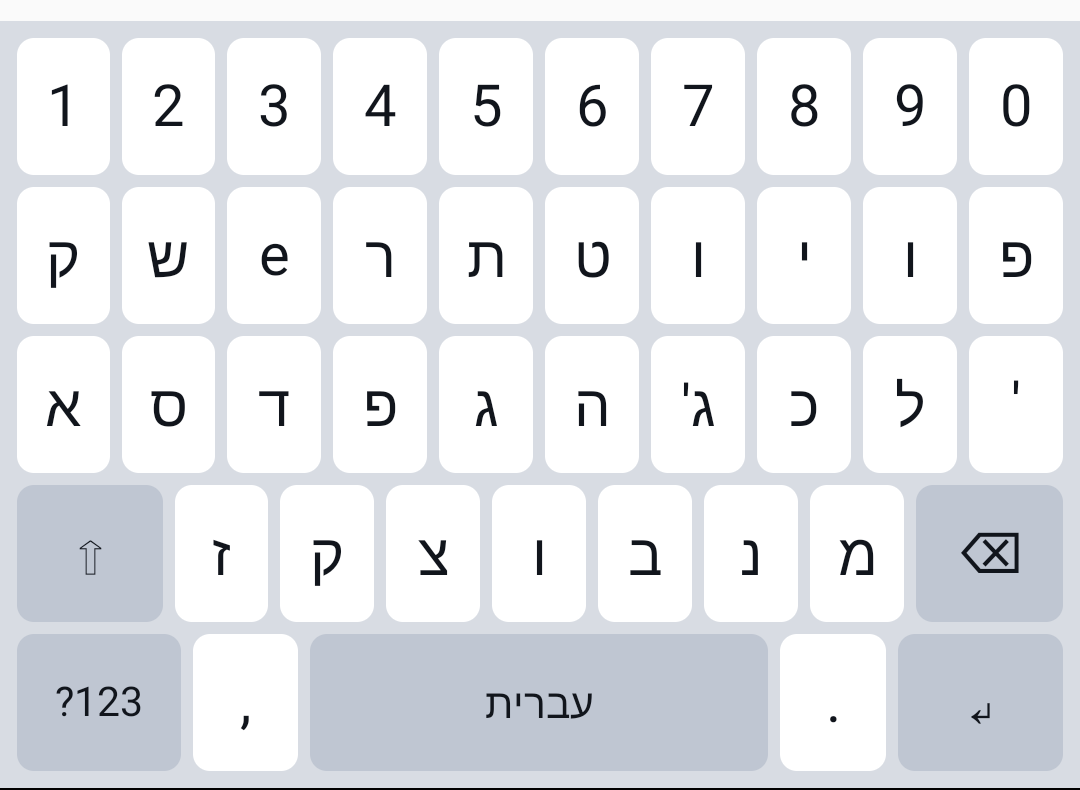
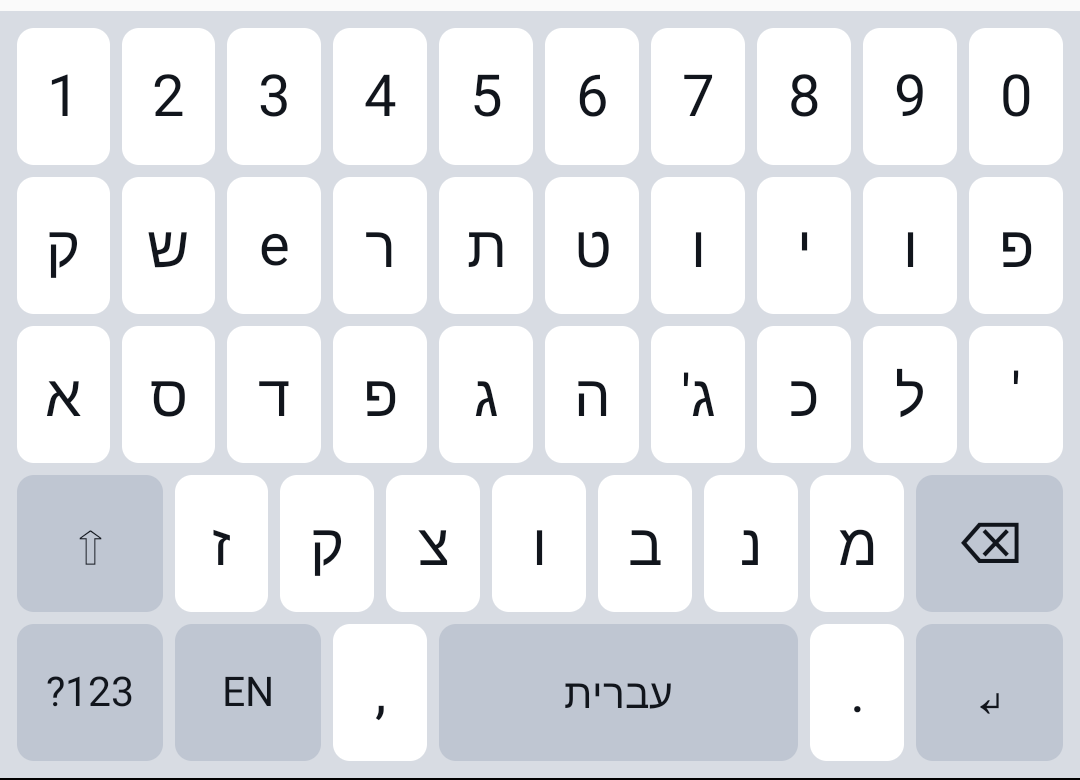
Add an English layer and a key that switches to it
Selecting this keyboard left no way back to Latin letters: the Windows
layout it reproduces has no such notion, because on a PC the layout is one
of several the system switches between, and on a phone the keyboard is the
only one on screen.

So the app now carries a second letter layer, a plain QWERTY on the same
keys, and the bottom row carries a key that moves between the two. The
same key held down rather than tapped opens the phone's own list of
keyboards, which is the way out to a keyboard this app does not provide.
The chosen language survives moving between text fields; the Shift state
and the symbols layer do not.

The three layers now share one bottom row, which first cost the Hebrew
layer the < and > that the Windows layout puts on Shift+comma and
Shift+period; the shared row takes them as arguments instead, and the
Hebrew layer is again identical, character for character, to the table
read out of the DLL.

Checked on an android-30 emulator: typing the QWERTY positions q w, then
the language key, then q w and Shift+a, then the language key again and
a, gives קשqwAא; holding the language key opens "Choose input method"
with both installed keyboards listed.

Claude-Session: https://claude.ai/code/session_01JozJedusmp8Pi1qQbLUUen

diff --git a/android/src/org/rami5743/heph1/KeyboardPanel.java b/android/src/org/rami5743/heph1/KeyboardPanel.java
@@ -23,10 +23,13 @@ final class KeyboardPanel extends LinearLayout {
         void onText(String text);
         void onBackspace();
         void onEnter();
+        /** The language key held down: offer the phone's other keyboards. */
+        void onOtherKeyboards();
     }
 
     private static final int REPEAT_FIRST_MS = 400;
     private static final int REPEAT_MS = 60;
+    private static final int HOLD_MS = 500;
 
     private final Listener listener;
     private final boolean dark;
@@ -35,6 +38,7 @@ final class KeyboardPanel extends LinearLayout {
     private boolean shift;
     private boolean shiftLocked;
     private boolean symbols;
+    private boolean hebrew = true;
 
     KeyboardPanel(Context context, Listener listener) {
         super(context);
@@ -65,7 +69,8 @@ final class KeyboardPanel extends LinearLayout {
 
     private void build() {
         removeAllViews();
-        Layout.Key[][] rows = symbols ? Layout.SYMBOLS : Layout.LETTERS;
+        Layout.Key[][] rows = symbols ? Layout.SYMBOLS
+                : hebrew ? Layout.HEBREW : Layout.ENGLISH;
         for (Layout.Key[] row : rows) {
             LinearLayout line = new LinearLayout(getContext());
             line.setOrientation(HORIZONTAL);
@@ -77,6 +82,23 @@ final class KeyboardPanel extends LinearLayout {
                 line.addView(makeKey(key), new LayoutParams(0,
                         ViewGroup.LayoutParams.MATCH_PARENT, key.weight));
             }
+        }
+    }
+
+    /**
+     * The label of a key, for the three special keys whose text says which
+     * layer the keyboard is on or would move to.
+     */
+    private String labelOf(Layout.Key key) {
+        switch (key.code) {
+            case Layout.Key.LANGUAGE:
+                return hebrew ? "EN" : "עב";
+            case Layout.Key.TO_LETTERS:
+                return hebrew ? "אבג" : "abc";
+            case Layout.Key.SPACE:
+                return hebrew ? "עברית" : "English";
+            default:
+                return key.labelFor(shift || shiftLocked);
         }
     }
 
@@ -95,9 +117,9 @@ final class KeyboardPanel extends LinearLayout {
         view.setIncludeFontPadding(false);
         view.setTextColor(dark ? 0xFFF2F4F8 : 0xFF11151C);
         boolean wide = key.code == Layout.Key.SPACE || key.code == Layout.Key.TO_SYMBOLS
-                || key.code == Layout.Key.TO_LETTERS;
+                || key.code == Layout.Key.TO_LETTERS || key.code == Layout.Key.LANGUAGE;
         view.setTextSize(TypedValue.COMPLEX_UNIT_SP, wide ? 15 : 21);
-        view.setText(key.labelFor(shift || shiftLocked));
+        view.setText(labelOf(key));
 
         final GradientDrawable face = new GradientDrawable();
         face.setCornerRadius(dp(6));
@@ -106,13 +128,23 @@ final class KeyboardPanel extends LinearLayout {
 
         int m = dp(2);
         view.setPadding(m, m, m, m);
-        LinearLayout holder = new LinearLayout(getContext());
-        holder.setPadding(m, m, m, m);
-        holder.addView(view, new LayoutParams(ViewGroup.LayoutParams.MATCH_PARENT,
+        LinearLayout cell = new LinearLayout(getContext());
+        cell.setPadding(m, m, m, m);
+        cell.addView(view, new LayoutParams(ViewGroup.LayoutParams.MATCH_PARENT,
                 ViewGroup.LayoutParams.MATCH_PARENT));
 
         view.setOnTouchListener(new KeyTouch(key, face));
-        return holder;
+        return cell;
+    }
+
+    /** The language key held down: the phone's list of keyboards. */
+    private final class Holder implements Runnable {
+        boolean fired;
+
+        @Override public void run() {
+            fired = true;
+            listener.onOtherKeyboards();
+        }
     }
 
     /** Repeats backspace while the key is held down. */
@@ -128,6 +160,7 @@ final class KeyboardPanel extends LinearLayout {
         private final Layout.Key key;
         private final GradientDrawable face;
         private Repeater repeater;
+        private Holder holder;
 
         KeyTouch(Layout.Key key, GradientDrawable face) {
             this.key = key;
@@ -140,7 +173,14 @@ final class KeyboardPanel extends LinearLayout {
                     face.setColor(pressedColor(key));
                     v.performHapticFeedback(HapticFeedbackConstants.KEYBOARD_TAP,
                             HapticFeedbackConstants.FLAG_IGNORE_GLOBAL_SETTING);
-                    fire(key);
+                    if (key.code == Layout.Key.LANGUAGE) {
+                        // the press itself only counts on release, so that a
+                        // hold can mean the other thing
+                        holder = new Holder();
+                        handler.postDelayed(holder, HOLD_MS);
+                    } else {
+                        fire(key);
+                    }
                     if (key.code == Layout.Key.BACKSPACE) {
                         repeater = new Repeater();
                         handler.postDelayed(repeater, REPEAT_FIRST_MS);
@@ -151,6 +191,16 @@ final class KeyboardPanel extends LinearLayout {
                     if (repeater != null) {
                         handler.removeCallbacks(repeater);
                         repeater = null;
+                    }
+                    if (holder != null) {
+                        boolean held = holder.fired;
+                        handler.removeCallbacks(holder);
+                        holder = null;
+                        if (!held && event.getActionMasked() == MotionEvent.ACTION_UP) {
+                            face.setColor(faceColor(key));
+                            fire(key);
+                            return true;
+                        }
                     }
                     face.setColor(faceColor(key));
                     return true;
@@ -194,6 +244,13 @@ final class KeyboardPanel extends LinearLayout {
                 symbols = false;
                 build();
                 return;
+            case Layout.Key.LANGUAGE:
+                hebrew = !hebrew;
+                symbols = false;
+                shift = false;
+                shiftLocked = false;
+                build();
+                return;
             default:
                 listener.onText(key.outputFor(shift || shiftLocked));
                 if (shift && !shiftLocked) {
@@ -203,7 +260,11 @@ final class KeyboardPanel extends LinearLayout {
         }
     }
 
-    /** Called when a new text field is opened, so the panel starts clean. */
+    /**
+     * Called when a new text field is opened. The chosen language is kept —
+     * it is the one thing the writer picked on purpose — but the Shift state
+     * and the symbols layer start clean.
+     */
     void reset() {
         if (shift || shiftLocked || symbols) {
             shift = false;

diff --git a/android/src/org/rami5743/heph1/Layout.java b/android/src/org/rami5743/heph1/Layout.java
@@ -1,12 +1,15 @@
 package org.rami5743.heph1;
 
 /**
- * The key tables of the Windows layout he_ph1, read out of the KBDTABLES
- * structure of he_ph1.dll (see tools/dump_msklc_dll.py and docs/layout.md).
+ * The key tables of the three layers the keyboard shows.
  *
- * Every letter key carries the character the Windows layout produces
- * unshifted and the character it produces with Shift, in the QWERTY
- * position it occupies there.
+ * The Hebrew layer is the Windows layout he_ph1, read out of the KBDTABLES
+ * structure of he_ph1.dll (see tools/dump_msklc_dll.py and docs/layout.md):
+ * every key carries the character that layout produces unshifted and the one
+ * it produces with Shift, in the QWERTY position it occupies there.
+ *
+ * The English layer is a plain QWERTY, so the same key gives the Hebrew
+ * letter and its Latin counterpart on the two layers.
  */
 final class Layout {
 
@@ -19,6 +22,8 @@ final class Layout {
         static final int TO_SYMBOLS = 4;
         static final int TO_LETTERS = 5;
         static final int SPACE = 6;
+        /** Hebrew <-> English; held down it offers the phone's other keyboards. */
+        static final int LANGUAGE = 7;
 
         final int code;
         final String base;      // label and output in the unshifted state
@@ -69,14 +74,28 @@ final class Layout {
     private static final String SHIFT_LABEL = "⇧";
     private static final String BACKSPACE_LABEL = "⌫";
     private static final String ENTER_LABEL = "↵";
-    private static final String SPACE_LABEL = "עברית";
+
+    /**
+     * The bottom row, shared by the three layers. The labels of the first
+     * three special keys depend on the layer, so KeyboardPanel supplies them;
+     * the ones here are only a fallback.
+     */
+    private static Key[] bottom(int firstCode, String firstLabel,
+                                String commaShifted, String dotShifted) {
+        return row(Key.special(firstCode, firstLabel, 1.5f),
+                   Key.special(Key.LANGUAGE, "EN", 1.5f),
+                   Key.of(",", commaShifted),
+                   Key.special(Key.SPACE, " ", 3.5f),
+                   Key.of(".", dotShifted),
+                   Key.special(Key.ENTER, ENTER_LABEL, 1.5f));
+    }
 
     /**
      * The Hebrew layer. Rows 2-4 are exactly the VK_TO_WCHAR table of
      * he_ph1.dll; the apostrophe key at the end of row 3 is that layout's
      * OEM_7 key, and J carries its two-character ligature gimel+apostrophe.
      */
-    static final Key[][] LETTERS = {
+    static final Key[][] HEBREW = {
         pairs("1\t!", "2\t@", "3\t#", "4\t$", "5\t%",
               "6\t^", "7\t&", "8\t*", "9\t(", "0\t)"),
         pairs("ק\tQ", "ש\tW", "e\tE", "ר\tR", "ת\tט",
@@ -88,11 +107,23 @@ final class Layout {
             Key.of("ו", "V"), Key.of("ב", "B"), Key.of("נ", "ן"),
             Key.of("מ", "ם"),
             Key.special(Key.BACKSPACE, BACKSPACE_LABEL, 1.5f)),
-        row(Key.special(Key.TO_SYMBOLS, "?123", 1.5f),
-            Key.of(",", "<"),
-            Key.special(Key.SPACE, SPACE_LABEL, 4f),
-            Key.of(".", ">"),
-            Key.special(Key.ENTER, ENTER_LABEL, 1.5f)),
+        bottom(Key.TO_SYMBOLS, "?123", "<", ">"),
+    };
+
+    /** A plain QWERTY, on the same keys. */
+    static final Key[][] ENGLISH = {
+        pairs("1\t!", "2\t@", "3\t#", "4\t$", "5\t%",
+              "6\t^", "7\t&", "8\t*", "9\t(", "0\t)"),
+        pairs("q\tQ", "w\tW", "e\tE", "r\tR", "t\tT",
+              "y\tY", "u\tU", "i\tI", "o\tO", "p\tP"),
+        pairs("a\tA", "s\tS", "d\tD", "f\tF", "g\tG",
+              "h\tH", "j\tJ", "k\tK", "l\tL", "'\t\""),
+        row(Key.special(Key.SHIFT, SHIFT_LABEL, 1.5f),
+            Key.of("z", "Z"), Key.of("x", "X"), Key.of("c", "C"),
+            Key.of("v", "V"), Key.of("b", "B"), Key.of("n", "N"),
+            Key.of("m", "M"),
+            Key.special(Key.BACKSPACE, BACKSPACE_LABEL, 1.5f)),
+        bottom(Key.TO_SYMBOLS, "?123", "<", ">"),
     };
 
     /** Digits and punctuation, reached through the ?123 key. */
@@ -107,11 +138,7 @@ final class Layout {
             Key.of("^", "^"), Key.of("&", "&"), Key.of("*", "*"), Key.of("(", "("),
             Key.of(")", ")"),
             Key.special(Key.BACKSPACE, BACKSPACE_LABEL, 1.5f)),
-        row(Key.special(Key.TO_LETTERS, "אבג", 1.5f),
-            Key.of(",", ","),
-            Key.special(Key.SPACE, SPACE_LABEL, 4f),
-            Key.of(".", "."),
-            Key.special(Key.ENTER, ENTER_LABEL, 1.5f)),
+        bottom(Key.TO_LETTERS, "אבג", ",", "."),
     };
 
     private Layout() {}

diff --git a/android/src/org/rami5743/heph1/HePh1InputMethodService.java b/android/src/org/rami5743/heph1/HePh1InputMethodService.java
@@ -1,10 +1,12 @@
 package org.rami5743.heph1;
 
+import android.content.Context;
 import android.inputmethodservice.InputMethodService;
 import android.view.KeyEvent;
 import android.view.View;
 import android.view.inputmethod.EditorInfo;
 import android.view.inputmethod.InputConnection;
+import android.view.inputmethod.InputMethodManager;
 
 /** The input method itself: it owns one {@link KeyboardPanel}. */
 public class HePh1InputMethodService extends InputMethodService
@@ -40,6 +42,13 @@ public class HePh1InputMethodService extends InputMethodService
         } else {
             ic.deleteSurroundingText(1, 0);
         }
+    }
+
+    @Override
+    public void onOtherKeyboards() {
+        InputMethodManager imm =
+                (InputMethodManager) getSystemService(Context.INPUT_METHOD_SERVICE);
+        if (imm != null) imm.showInputMethodPicker();
     }
 
     @Override

diff --git a/android/src/org/rami5743/heph1/SetupActivity.java b/android/src/org/rami5743/heph1/SetupActivity.java
@@ -35,6 +35,7 @@ public class SetupActivity extends Activity {
 
         root.addView(title(getString(R.string.app_name)));
         root.addView(body(getString(R.string.intro)));
+        root.addView(body(getString(R.string.tip_lang)));
 
         root.addView(body(getString(R.string.step1)));
         root.addView(button(getString(R.string.btn_enable), new View.OnClickListener() {

diff --git a/README.md b/README.md
@@ -76,8 +76,25 @@ https://github.com/Rami5743/Ph_He/raw/main/dist/he-ph1-keyboard.apk
       Z    X    ץ    V    B    ן    ם
 ```
 
-מקש הספרות והסימנים פותח שכבה נוספת עם הספרות, עם סימני הפיסוק של הפריסה
-המקורית ועם סימן השקל.
+המקש הימני בשורה הרביעית הוא מחיקה, והמקש השמאלי הוא ההחלפה. ההחלפה ננעלת
+בלחיצה שנייה ומשתחררת בשלישית.
+
+בשורה התחתונה יש שני מקשי מעבר, זה לצד זה.
+
+הראשון פותח שכבה של ספרות וסימנים, עם סימני הפיסוק של הפריסה המקורית ועם
+סימן השקל.
+
+השני מחליף בין עברית לאנגלית. האנגלית היא פריסת
+QWERTY
+רגילה על אותם המקשים עצמם, כך שכל מקש נותן את האות העברית ואת האות הלועזית
+המקבילה לה, לפי השכבה. על המקש כתוב לאן הוא מעביר, ועל מקש הרווח כתוב באיזו
+שכבה נמצאים כרגע.
+
+![שתי השכבות](docs/keyboard-layers.png)
+
+אם מחזיקים את אותו מקש לחוץ במקום ללחוץ עליו, נפתחת רשימת המקלדות של הטלפון,
+וכך אפשר לעבור ממנה למקלדת אחרת לגמרי. השפה הנבחרת נשמרת גם כשעוברים בין
+שדות טקסט.
 
 שלושה דברים בפריסה נראים כמו טעות והם נשמרו בכוונה, כי המקלדת בטלפון אמורה
 להתנהג בדיוק כמו זאת שבמחשב:

diff --git a/docs/layout.md b/docs/layout.md
@@ -70,6 +70,14 @@ app adds what a soft keyboard needs and the DLL has no place for:
 
 * a `?123` layer with the digits, the punctuation of the Windows layout and
   the shekel sign;
+* an English layer — a plain QWERTY on the same keys, so one key gives the
+  Hebrew letter and its Latin counterpart depending on the layer — and a
+  language key next to `?123` that moves between the two. Held down rather
+  than tapped, that key opens the phone's own list of keyboards, which is
+  the way out to a keyboard this app does not provide;
 * backspace, Enter, space and a Shift key that locks on a second tap;
 * the apostrophe key (the layout's `OEM_7`) is kept at the end of the home
   row, where it is on a physical keyboard.
+
+The chosen language survives moving between text fields; the Shift state and
+the symbols layer do not.
